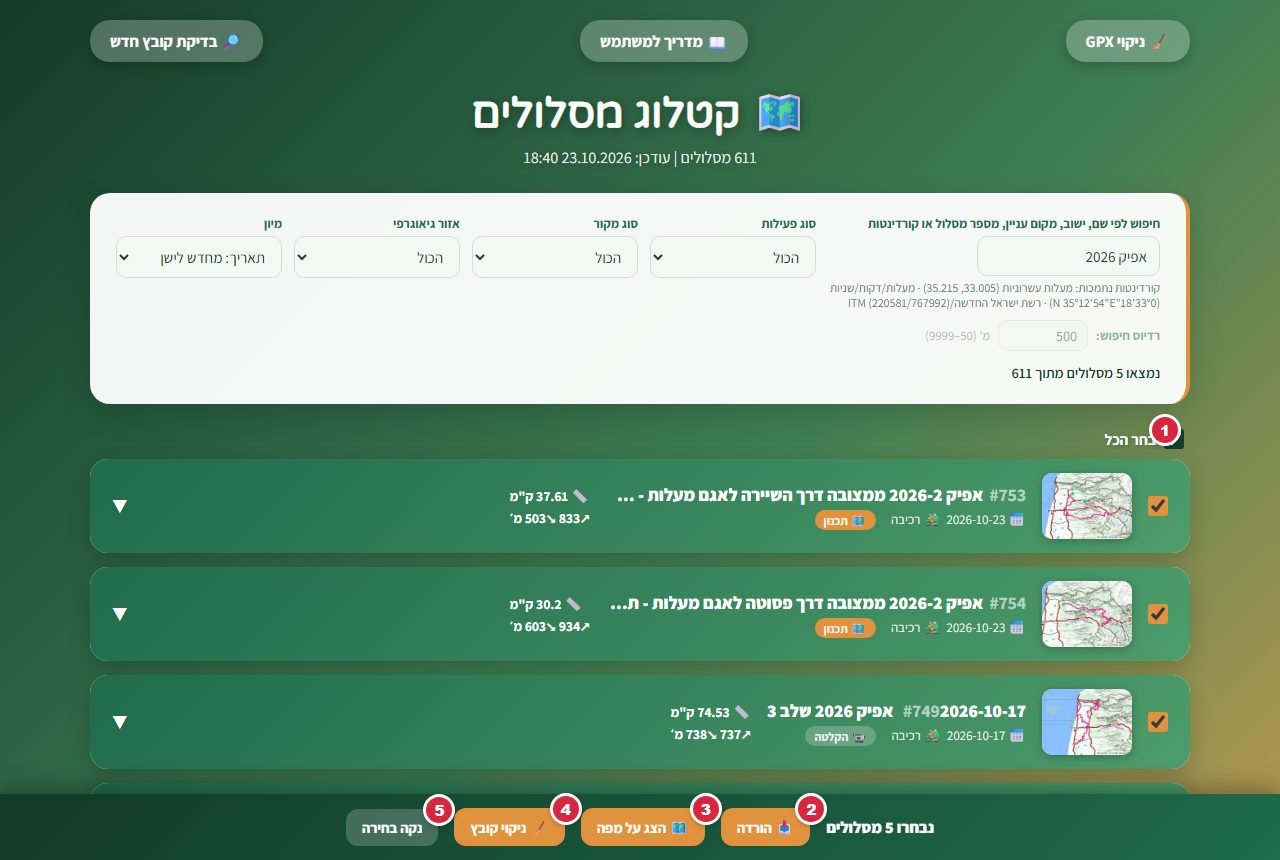
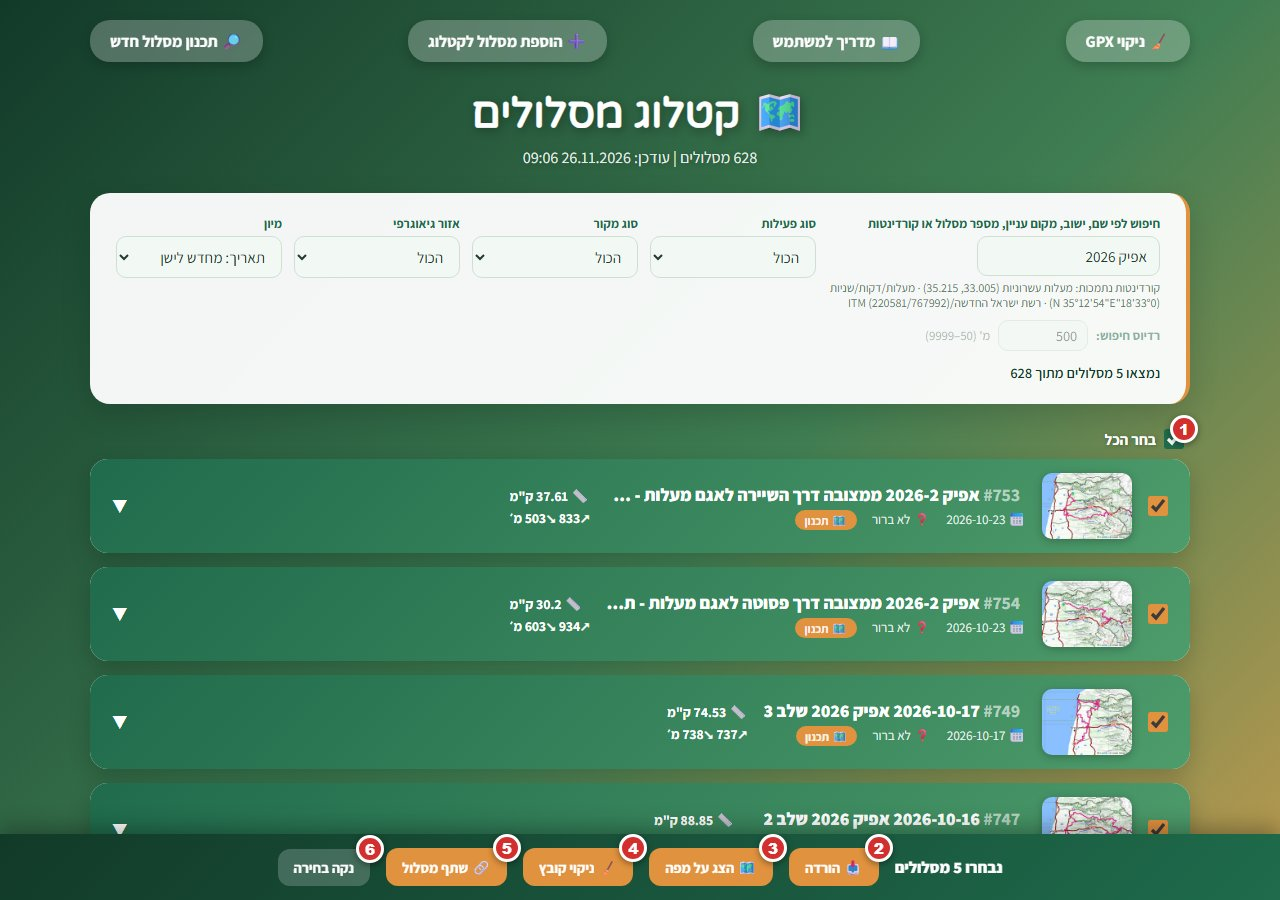
Bike user guide: km markers, GPX details in card, share button, planned-route rule, phone layout; new screenshots
CLAUDE.md: rule to update the YR1/bike user guide (text + screenshots) with
every user-visible change.

Changed region(s): [[0.0625, 0.0, 1.0, 0.9977], [0.0938, 0.0302, 0.1875, 0.0907], [0.8438, 0.0302, 0.9062, 0.0907]]

diff --git a/YR1/bike/user_guide/user_guide.html b/YR1/bike/user_guide/user_guide.html
@@ -168,6 +168,7 @@ footer{text-align:center;color:#5C7A6B;font-size:.9rem;padding:10px 16px 30px}
     <tr><td><span class="n">14</span></td><td>חץ ▼ (וכל שורת הכותרת)</td><td>פותח וסוגר את פרטי המסלול. ראו <a href="#catalog-card">כרטיס מסלול</a>.</td></tr>
   </table>
   <p>בשורת הכותרת של כל מסלול מופיעים: מספר המסלול (#), השם, התאריך, סוג הפעילות, תגית 📹 הקלטה או 🗺 תכנון, המרחק בק"מ והטיפוס והירידה במטרים (↗ ↘). למסלול מתוכנן בלי נתוני גובה כתוב "אין נתון (תכנון)".</p>
+  <p><b>הקלטה או תכנון:</b> קובץ שיש בו זמני רכיבה (חותמות זמן לנקודות) מסומן 📹 הקלטה. קובץ בלי זמני רכיבה מסומן תמיד 🗺 תכנון, וסוג הפעילות שלו "לא ברור", כי אי אפשר לדעת ממנו אם רכבו או הלכו בו.</p>
   <div class="warn">⚠ מסלול בצבע אפור עם התגית <b>"מסלול לא תקין"</b> הוא הקלטה שהייתה בה קפיצת GPS בלתי-אפשרית. הנקודות השגויות הוסרו מהחישוב, אבל כדאי להתייחס למרחק ולגובה בזהירות. מסלולים כאלה מופיעים תמיד בסוף הרשימה.</div>
   <div class="warn">🚗 מסלול אפור עם התגית <b>"כולל נסיעה ברכב"</b> הוא הקלטה שנשארה דולקת גם בנסיעה ברכב, למשל בדרך הביתה בסוף הרכיבה. בפרטי המסלול כתוב באילו שעות הייתה הנסיעה ומה אורכה. המרחק, הגובה והמפה של מסלול כזה כוללים את הנסיעה, ולכן כדאי לבדוק אותו על המפה לפני שמשתמשים בו. גם המסלולים האלה מופיעים בסוף הרשימה.</div>
 
@@ -187,6 +188,7 @@ footer{text-align:center;color:#5C7A6B;font-size:.9rem;padding:10px 16px 30px}
       <li>אפשר לצמצם עוד בעזרת סוג פעילות, סוג מקור ואזור.</li>
     </ol>
   </div>
+  <div class="tip">📱 בטלפון מוצגת רק תיבת החיפוש. סוג הפעילות, סוג המקור, האזור והמיון נמצאים מאחורי הכפתור <b>⚙ סינון ומיון</b>, ולידו מספר כתום שמראה כמה מסננים פעילים.</div>
   <figure><img src="img/catalog-search-terms.jpg" alt="חיפוש בכמה מילים" loading="lazy"><figcaption>חיפוש "געתון, כברי"</figcaption></figure>
 
   <div class="task">
@@ -219,14 +221,16 @@ footer{text-align:center;color:#5C7A6B;font-size:.9rem;padding:10px 16px 30px}
 
 <section id="catalog-card">
   <h2>📋 כרטיס מסלול</h2>
-  <p>לחיצה על שורת הכותרת של מסלול פותחת את הפרטים שלו: האזור הגיאוגרפי, הישובים הסמוכים ומספר הנקודות בקובץ. אם יש למסלול הערות, הן מופיעות כאן.</p>
-  <figure><img src="img/catalog-card-open.jpg" alt="כרטיס מסלול פתוח" loading="lazy"><figcaption>מסלול #752 פתוח, עם הערות ומקומות עניין</figcaption></figure>
+  <p>לחיצה על שורת הכותרת של מסלול פותחת את הפרטים שלו: האזור הגיאוגרפי, הישובים הסמוכים ומספר הנקודות בקובץ, ומתחתם פרטים שנקראים מתוך קובץ ה-GPX עצמו. אם יש למסלול הערות, הן מופיעות כאן.</p>
+  <figure><img src="img/catalog-card-open.jpg" alt="כרטיס מסלול פתוח" loading="lazy"><figcaption>מסלול #752 פתוח, עם הפרטים מקובץ ה-GPX, הערות ומקומות עניין</figcaption></figure>
   <table>
     <tr><th>#</th><th>כפתור / אזור</th><th>מה הוא עושה</th></tr>
     <tr><td><span class="n">1</span></td><td>📥 הורדת קובץ GPX</td><td>מוריד את קובץ המסלול למחשב או לטלפון. אפשר לטעון אותו לאפליקציית ניווט, לשעון או למחשב רכיבה.</td></tr>
     <tr><td><span class="n">2</span></td><td>הערות</td><td>תיאור המסלול: מאיפה לאן, דרך איפה, ודברים שכדאי לדעת.</td></tr>
     <tr><td><span class="n">3</span></td><td>מקומות עניין</td><td>כל תגית היא מקום שהמסלול עובר בו. לחיצה על תגית מחפשת את כל המסלולים שעוברים באותו מקום.</td></tr>
+    <tr><td><span class="n">4</span></td><td>📄 מתוך קובץ ה-GPX</td><td>פרטים שנקראים מהקובץ כשפותחים את הכרטיס: באיזו אפליקציה או מכשיר הוא נוצר, השם והתיאור שבתוך הקובץ, וסוג הפעילות אם רשום בו. בהקלטה מופיעים גם שעת ההתחלה והסיום, המשך הכולל, הזמן בתנועה (בלי עצירות), המהירות הממוצעת, ואם המכשיר מדד, גם דופק, קצב דיווש, הספק וטמפרטורה. במסלול מתוכנן כתוב שאין בקובץ זמני רכיבה.</td></tr>
   </table>
+  <div class="tip">💡 "זמן בתנועה" מחושב לפי מהירות של יותר מ-1.5 קמ"ש בחלונות של 30 שניות. אפליקציות כמו Strava או OruxMaps מחשבות אותו קצת אחרת, ולכן המספר יכול להיות שונה מעט ממה שהאפליקציה הראתה.</div>
 </section>
 
 <section id="catalog-select">
@@ -239,14 +243,16 @@ footer{text-align:center;color:#5C7A6B;font-size:.9rem;padding:10px 16px 30px}
     <tr><td><span class="n">2</span></td><td>📥 הורדה</td><td>מוריד את קובצי ה-GPX של כל המסלולים שנבחרו, כל אחד כקובץ נפרד. ייתכן שהדפדפן ישאל אם לאשר הורדה של כמה קבצים.</td></tr>
     <tr><td><span class="n">3</span></td><td>🗺 הצג על מפה</td><td>פותח מפה במסך מלא עם כל המסלולים שנבחרו, כל אחד בצבע אחר. ראו <a href="#catalog-map">תצוגת המפה</a>.</td></tr>
     <tr><td><span class="n">4</span></td><td>🧹 ניקוי קובץ</td><td>פותח את דף <a href="#cleaner">ניקוי GPX</a> עם המסלול שנבחר. אם נבחרו כמה מסלולים, נפתח הראשון ברשימה.</td></tr>
-    <tr><td><span class="n">5</span></td><td>נקה בחירה</td><td>מבטל את הבחירה של כל המסלולים.</td></tr>
+    <tr><td><span class="n">5</span></td><td>🔗 שתף מסלול</td><td>שולח את המסלולים שנבחרו לאחרים. במכשיר שתומך בשיתוף קבצים (בדרך כלל טלפון) נפתח חלון השיתוף של המכשיר עם קובצי ה-GPX עצמם (עד 10 מסלולים; מעל זה נשלחים קישורים). אחרת נפתח חלון עם ווטסאפ, דוא"ל, העתקת קישור והורדה לצירוף ידני. הקישור הוא קישור קצר לקובץ, ולחיצה עליו מורידה אותו.</td></tr>
+    <tr><td><span class="n">6</span></td><td>נקה בחירה</td><td>מבטל את הבחירה של כל המסלולים.</td></tr>
   </table>
+  <div class="tip">📱 בטלפון פס הפעולות מוצג כשורה אחת של אייקונים: 📥 הורדה, 🗺 מפה, 🧹 ניקוי, 🔗 שיתוף ו-✕ ניקוי הבחירה.</div>
 </section>
 
 <section id="catalog-map">
   <h2>🗺 תצוגת מסלולים על המפה</h2>
   <p>אחרי לחיצה על <b>🗺 הצג על מפה</b> נפתחת מפת טיולים במסך מלא. כל מסלול מופיע בצבע משלו: <b>עיגול</b> מסמן את נקודת ההתחלה ו<b>מעוין</b> את נקודת הסיום. במסלול שמורכב מכמה קטעים נפרדים אין סימוני התחלה וסיום.</p>
-  <figure><img src="img/map-view.jpg" alt="מסלולים על המפה" loading="lazy"><figcaption>שני מסלולים על המפה, עם מקרא בפינה</figcaption></figure>
+  <figure><img src="img/map-view.jpg" alt="מסלולים על המפה" loading="lazy"><figcaption>שני מסלולים על המפה, עם סימוני קילומטרים ומקרא בפינה</figcaption></figure>
   <table>
     <tr><th>#</th><th>כפתור</th><th>מה הוא עושה</th></tr>
     <tr><td><span class="n">1</span></td><td>🖊 עריכת מסלול</td><td>פותח את תפריט העריכה. ראו <a href="#catalog-edit">עריכת מסלול מתוך המפה</a>.</td></tr>
@@ -254,7 +260,11 @@ footer{text-align:center;color:#5C7A6B;font-size:.9rem;padding:10px 16px 30px}
     <tr><td><span class="n">3</span></td><td>🗑 מחיקת מסלול חדש</td><td>מוחק את המסלול שבניתם כדי להתחיל מחדש. המסלולים המקוריים לא נפגעים.</td></tr>
     <tr><td><span class="n">4</span></td><td>✕ סגירה</td><td>סוגר את המפה וחוזר לקטלוג. הבחירה נשמרת.</td></tr>
     <tr><td><span class="n">5</span></td><td>מקרא</td><td>שם, מרחק וגובה של כל מסלול, עם הצבע שלו. לחיצה על שם מסתירה את המסלול מהמפה, ולחיצה נוספת מחזירה אותו.</td></tr>
+    <tr><td><span class="n">6</span></td><td>📏 אורך המסלול במקרא</td><td>מדליק ומכבה את סימוני הקילומטרים של המסלול הזה בלבד. כשהסימונים מוצגים האורך ירוק עם קו תחתון מנוקד, וכשהם כבויים הוא אפור וחצוי בקו.</td></tr>
+    <tr><td><span class="n">7</span></td><td>סימון קילומטר</td><td>עיגול בצבע המסלול עם מספר הקילומטרים מתחילת המסלול.</td></tr>
   </table>
+  <h3 id="map-km">סימוני קילומטרים</h3>
+  <p>כל מסלול עולה על המפה עם סימוני קילומטרים לאורכו. המרווח בין הסימונים משתנה לפי הזום, כדי שהם לא יכסו את הקו: בזום קרוב סימון לכל ק"מ, וככל שמתרחקים כל 2, 5, 10, 20 ק"מ ויותר. בקובץ שמורכב מכמה קטעים המרחק ממשיך להצטבר מקטע למקטע. לקובצי רשת מסלולים אין סימוני קילומטרים. גם המסלול שבונים בעריכה (הקו הכתום) מקבל סימונים, והם מתעדכנים בכל שינוי.</p>
   <h3>קורדינטות של נקודה</h3>
   <p>לחיצה על כל נקודה במפה (כשלא נמצאים במצב עריכה) פותחת חלונית עם הקורדינטות שלה. <b>📋 העתקת קורדינטות</b> מעתיק אותן, ואפשר להדביק אותן בתיבת החיפוש של הקטלוג או בכל אפליקציה אחרת.</p>
   <figure><img src="img/map-coord-popup.jpg" alt="קורדינטות של נקודה" loading="lazy"></figure>
@@ -352,6 +362,7 @@ footer{text-align:center;color:#5C7A6B;font-size:.9rem;padding:10px 16px 30px}
     <tr><td><span class="n">5</span></td><td>⬇ הורדת מסלול חדש</td><td>מוריד את המסלול שבניתם בעריכה כ-<code>מסלול_חדש.gpx</code>. המסלול נשאר על המפה, ואפשר להמשיך לערוך אותו.</td></tr>
     <tr><td><span class="n">6</span></td><td>🗑 מחיקת מסלול חדש</td><td>מוחק את המסלול שבניתם כדי להתחיל מחדש.</td></tr>
     <tr><td><span class="n">7</span></td><td>🏠 חזרה לראשי</td><td>חזרה לקטלוג המסלולים.</td></tr>
+    <tr><td><span class="n">8</span></td><td>📏 אורך הקובץ</td><td>מדליק ומכבה את <a href="#map-km">סימוני הקילומטרים</a> של הקובץ הזה על המפה. בקובץ עם כמה מקטעים אין סימוני קילומטרים, והאורך מוצג כטקסט רגיל.</td></tr>
   </table>
   <p>כל פעולה שמוחקת מסלול שבניתם (מחיקה, פתיחת קובץ נוסף, בחירה מהקטלוג או סגירת מסלול) שואלת קודם מה לעשות: <b>📌 שמור את המסלול על המסך</b> (המסלול נכנס לרשימה כמו קובץ שנפתח), <b>⬇ שמור לדיסק</b>, <b>🗑 המשך ומחק</b> או ביטול.</p>
   <h3>קורדינטות של נקודה</h3>
@@ -485,7 +496,8 @@ footer{text-align:center;color:#5C7A6B;font-size:.9rem;padding:10px 16px 30px}
   <table>
     <tr><th>#</th><th>כפתור / שדה</th><th>מה הוא עושה</th></tr>
     <tr><td><span class="n">1</span></td><td>⬇ הורד GPX נקי</td><td>מוריד את הקובץ הנקי. שמו הוא שם הקובץ המקורי עם התוספת <code>_FIXED</code>.</td></tr>
-    <tr><td><span class="n">2</span></td><td>זמן · מרחק · גובה מצטבר</td><td>הנתונים של המסלול אחרי הניקוי.</td></tr>
+    <tr><td><span class="n">2</span></td><td>זמן · מרחק · גובה מצטבר</td><td>הנתונים של המסלול אחרי הניקוי. לחיצה על המרחק מדליקה ומכבה את סימוני הקילומטרים במפה.</td></tr>
+    <tr><td><span class="n">3</span></td><td>סימון קילומטר</td><td>מספר הקילומטרים מתחילת המסלול הנקי. ראו <a href="#map-km">סימוני קילומטרים</a>.</td></tr>
   </table>
   <p><b>← חזור</b> מחזיר למסך התוצאות, ו-<b>🏠 ראשי</b> לקטלוג.</p>
 </section>
@@ -521,7 +533,7 @@ footer{text-align:center;color:#5C7A6B;font-size:.9rem;padding:10px 16px 30px}
   <h4>"השטח המוצג במפה גדול מדי לשליפת נתיבים"</h4>
   <p>ההצמדה לשבילי המפה טוענת את השבילים של השטח שמוצג כרגע. מקרבים את המפה לאזור קטן יותר ובוחרים שוב 📍.</p>
   <h4>האם האתר עובד בטלפון?</h4>
-  <p>כן. בטלפון לחיצה ארוכה מחליפה את הלחיצה הימנית, ואפשר להגדיל צילומי מסך ומפות עם שתי אצבעות.</p>
+  <p>כן. בטלפון לחיצה ארוכה מחליפה את הלחיצה הימנית, ואפשר להגדיל צילומי מסך ומפות עם שתי אצבעות. בקטלוג התצוגה מותאמת למסך קטן: כרטיסי המסלולים קומפקטיים והשם המלא מוצג בשתי שורות, הסינון והמיון נמצאים מאחורי <b>⚙ סינון ומיון</b>, ופס הפעולות של מסלולים שנבחרו הוא שורה אחת של אייקונים שנשארת בתחתית המסך גם כשמגדילים את העמוד.</p>
   <h4>על איזו מפה מוצגים המסלולים?</h4>
   <p>כברירת מחדל על <a href="https://www.cyclosm.org" target="_blank" rel="noopener">CyclOSM</a>, מפת רכיבה של OpenStreetMap עם שבילים, דרכי עפר וקווי גובה. בפינה העליונה של כל מפה יש כפתור שכבות, ובו אפשר לעבור למפת הטיולים של <a href="https://israelhiking.osm.org.il" target="_blank" rel="noopener">Israel Hiking Map</a>, עם סימוני שבילים, מעיינות ואתרים. הבחירה נשמרת בדפדפן ותקפה לכל העמודים. התמונות הממוזערות בקטלוג נשארות על Israel Hiking Map.</p>
   <h4>יש לי שאלה או הערה</h4>

diff --git a/CLAUDE.md b/CLAUDE.md
@@ -326,6 +326,15 @@ python BTL/support_files/senior_rights/scripts/build_search_index.py
 
 **תוצאות חיפוש-תוכן ב-UI (`search-widget.js`):** נטען עצלנית — `search-index.json` (כ-1.6MB, יגדל עם הזמן) נשלף רק בהקלדה ראשונה בתיבת החיפוש, לא בטעינת העמוד, כדי לא להכביד על כל מי שלא משתמש בחיפוש. מוצג כקבוצת תוצאות נפרדת מתחת לתוצאות התפריט הרגילות ("נמצאו X תוצאות מתוך תוכן העמודים"), עם קטע טקסט (snippet) סביב ההתאמה בפועל ומודגש — לא רק כותרת+breadcrumb כמו תוצאות תפריט. דה-דופליקציה כפולה: (א) בתוך אותו עמוד, `resolveMatchFrontier()` (ראו למעלה); (ב) מול תוצאות התפריט הרגילות, לפי כתובת URL (לא מציג את אותו עמוד פעמיים).
 
+## אתר האופניים — YR1/bike: עדכון המדריך למשתמש
+
+**כל שינוי שמשתמש יכול לראות** באחד מעמודי `YR1/bike` (`route_catalog/catalog.html`, `gps_upload/gps_upload.html`, `gpx_cleaner/gpx_cleaner.html`, `add_route/add_route.html`, או מודול משותף תחת `route_catalog/data/` שמשפיע עליהם) — כפתור/שדה חדש או ששונה, התנהגות חדשה, כלל סיווג חדש בקטלוג, או התאמה לטלפון — **מחייב עדכון של `YR1/bike/user_guide/user_guide.html` באותה משימה**, לפני הדחיפה, ולא כמשימה נפרדת מאוחרת יותר:
+
+1. **טקסט:** לעדכן את הסעיף של אותו עמוד — שורה בטבלת הכפתורים (מספור רציף, תואם לתגי המספר בצילום), משפט הסבר, או `tip`/`warn`. תכונה חדשה שלא שייכת לשום שורה קיימת מקבלת תת-סעיף (`h3` עם `id`) שאפשר לקשר אליו מסעיפים אחרים. אם נוסף סעיף ראשי — גם לתוכן העניינים (`.toc-group` של אותו עמוד).
+2. **צילומי מסך (`user_guide/img/*.jpg`):** כל צילום שהשינוי נראה בו — לצלם מחדש ב-Playwright מול Live Server (`http://127.0.0.1:5500`), רוחב 1280, עם תגי מספר אדומים מוזרקים ב-JS ליד כל כפתור שמתועד בטבלה. **לכתוב את הצילומים קודם לתיקיית ה-scratchpad ורק בסוף להעתיק ל-`img/`** — כתיבה לתוך תיקיית הפרויקט בזמן הצילום גורמת ל-Live Server לרענן את העמוד באמצע. לבדוק כל צילום ויזואלית (תג שמכסה טקסט, תגים חופפים) לפני ההעתקה.
+3. **לא לתעד מה שלא נבדק:** לנסח רק התנהגות שאומתה בפועל בקוד או בדפדפן (למשל לא לכתוב "לחיצה ארוכה מציגה את שם האייקון" בלי לבדוק).
+4. **שינוי פנימי בלבד** (ריפקטור, סקריפט בנייה, נתונים בקטלוג כמו מסלול חדש/שינוי שם) — לא מחייב עדכון מדריך.
+
 ## אפליקציית "מי נמצא" — YR1/whoIn
 
 אפליקציית רשת נפרדת לגמרי מ-BTL, לקבוצת משתמשים סגורה (עד ~200 בשלב ראשון): כל משתמש יכול לפתוח "אירוע" ("מי נמצא?") ולהזמין אליו משתתפים ספציפיים ו/או קבוצות שלמות, והמוזמנים משיבים נמצא/נמצא חלקית/לא נמצא/לא יודע עדיין. הוראות הקמה מלאות (יצירת פרויקט Supabase, הרצת הסכימה, משתני סביבה ב-Netlify, בוטסטראפ אדמין ראשון) נמצאות ב-`YR1/whoIn/README.md` — **לא** כאן.
